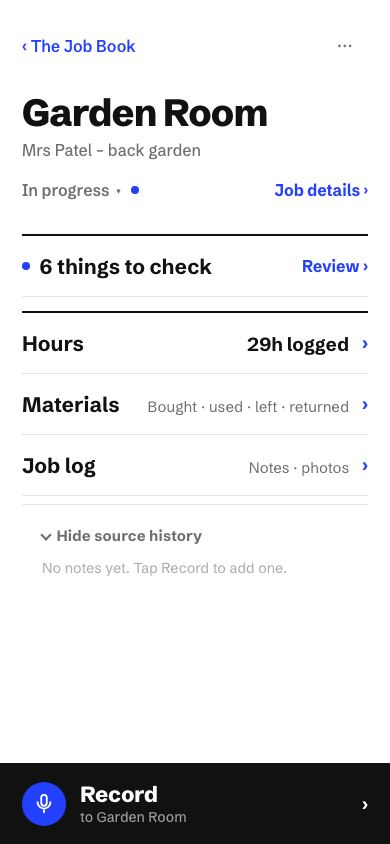
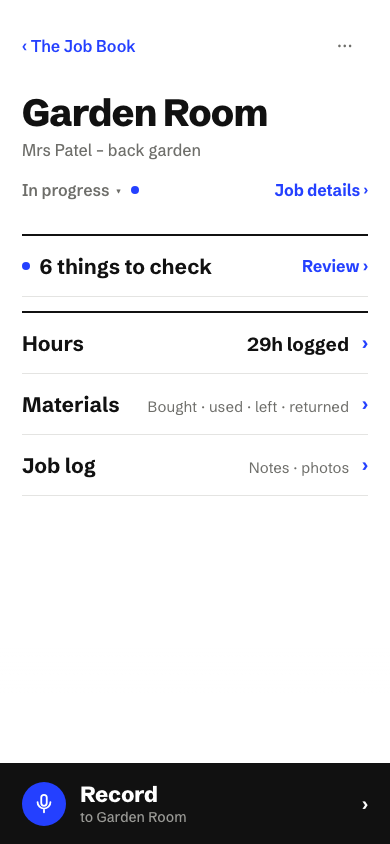
Fit Things to check actions on narrow phones; tidy job home recordings list
- Fix and Dismiss no longer shrink below their label at 320-390px; the
  action row wraps instead. Playwright now fails if any action is clipped.
- Hours checks are labelled "Hours", not "Hours · hours".
- Job home no longer says "No notes yet" beside the Job log. The phone-side
  list appears only when this phone holds recordings for the job, and is
  named "Recordings on this phone" (it keeps upload state and Retry).
- Refresh job home and Things to check screenshots; add a 320px shot.

Changed region(s): [[0.1231, 0.6161, 0.5538, 0.6777], [0.5846, 0.6469, 0.6769, 0.6777], [0.7077, 0.6469, 0.7385, 0.6777]]

diff --git a/src/__tests__/workspace.test.tsx b/src/__tests__/workspace.test.tsx
@@ -327,8 +327,8 @@ describe('CurrentJobWorkspace — capture', () => {
     await user.click(screen.getByRole('button', { name: /start recording/i }))
     await simulateRecordingComplete(FAKE_RESULT)
 
-    // Scope to source history — the capture confirmation overlay also reflects state.
-    const history = () => within(screen.getByRole('region', { name: /source history/i }))
+    // Scope to the phone recordings list — the capture confirmation overlay also reflects state.
+    const history = () => within(screen.getByRole('region', { name: /recordings on this phone/i }))
     await waitFor(() => expect(history().getByText(/saved on phone/i)).toBeInTheDocument())
     await waitFor(() => expect(history().getByText(/voice note saved/i)).toBeInTheDocument(), { timeout: 3000 })
   })
@@ -362,7 +362,7 @@ describe('CurrentJobWorkspace — capture', () => {
     await user.click(screen.getByRole('button', { name: /start recording/i }))
     await simulateRecordingComplete(FAKE_RESULT)
 
-    const history = () => within(screen.getByRole('region', { name: /source history/i }))
+    const history = () => within(screen.getByRole('region', { name: /recordings on this phone/i }))
     await waitFor(() => expect(history().getByText(/saved on this phone/i)).toBeInTheDocument())
     expect(mockUpload).not.toHaveBeenCalled()
 
@@ -406,15 +406,22 @@ describe('CurrentJobWorkspace — capture', () => {
   })
 })
 
-describe('CurrentJobWorkspace — source history / no pipeline language', () => {
+describe('CurrentJobWorkspace — phone recordings list / no pipeline language', () => {
   beforeEach(() => {
     vi.spyOn(navigator, 'onLine', 'get').mockReturnValue(true)
     vi.mocked(getReviewQueue).mockResolvedValue(EMPTY_QUEUE)
   })
 
-  it('source history region is present', () => {
+  it('shows no phone recordings list, and no "No notes yet", when the phone holds none for this job', () => {
     renderWorkspace()
-    expect(screen.getByRole('region', { name: /source history/i })).toBeInTheDocument()
+    expect(screen.queryByRole('region', { name: /recordings on this phone/i })).not.toBeInTheDocument()
+    expect(screen.queryByText(/no notes yet/i)).not.toBeInTheDocument()
+  })
+
+  it('lists recordings held on this phone for this job', async () => {
+    await saveNote(makeNote({ jobId: JOB.id, localState: 'saved_local', serverNoteId: null }))
+    renderWorkspace()
+    expect(await screen.findByRole('region', { name: /recordings on this phone/i })).toBeInTheDocument()
   })
 
   it('does not show file size on note cards', async () => {

diff --git a/src/SourceHistory.tsx b/src/SourceHistory.tsx
@@ -203,8 +203,12 @@ export default function SourceHistory({
   onToggle: () => void
 }) {
   const canRefresh = notes.some(n => n.localState === 'uploaded' && n.serverNoteId)
+  // The Job log is the record of a job's notes. This list is only the
+  // recordings held on this phone (with upload state and Retry), so it is
+  // absent rather than "empty" when there are none.
+  if (notes.length === 0) return null
   return (
-    <section className="source-history" aria-label="Source history">
+    <section className="source-history" aria-label="Recordings on this phone">
       <div className="source-history-header">
         <button
           className="source-history-toggle"
@@ -212,10 +216,8 @@ export default function SourceHistory({
           onClick={onToggle}
         >
           {open
-            ? 'Hide source history'
-            : notes.length > 0
-              ? `Source history (${notes.length})`
-              : 'Source history'}
+            ? 'Hide recordings on this phone'
+            : `Recordings on this phone (${notes.length})`}
         </button>
         {open && canRefresh && (
           <button className="btn-refresh-transcripts" onClick={onRefresh}>
@@ -224,17 +226,13 @@ export default function SourceHistory({
         )}
       </div>
       {open && (
-        notes.length === 0 ? (
-          <p className="notes-empty">No notes yet. Tap Record to add one.</p>
-        ) : (
-          <ul className="notes-list">
-            {notes.map(note => (
-              <li key={note.clientNoteId}>
-                <NoteCard note={note} online={online} onRetry={onRetry} facts={facts} factsLoadFailed={factsLoadFailed} />
-              </li>
-            ))}
-          </ul>
-        )
+        <ul className="notes-list">
+          {notes.map(note => (
+            <li key={note.clientNoteId}>
+              <NoteCard note={note} online={online} onRetry={onRetry} facts={facts} factsLoadFailed={factsLoadFailed} />
+            </li>
+          ))}
+        </ul>
       )}
     </section>
   )

diff --git a/e2e/things-to-check-volume.spec.ts b/e2e/things-to-check-volume.spec.ts
@@ -79,3 +79,29 @@ test.describe('Things to check — real-use volume', () => {
     expect((remBox?.y ?? 0)).toBeGreaterThan(cardBox?.y ?? 0)
   })
 })
+
+test.describe('Things to check — action buttons fit on a phone', () => {
+  for (const width of [320, 390]) {
+    test(`no action button is clipped at ${width}px`, async ({ page }) => {
+      await page.setViewportSize({ width, height: 844 })
+      await openQueue(page)
+      const clipped = await page.$$eval('.queue-item-actions button', (buttons) =>
+        buttons
+          .filter((b) => {
+            const card = b.closest('.queue-item-card') ?? document.body
+            const r = b.getBoundingClientRect()
+            const c = card.getBoundingClientRect()
+            return b.scrollWidth > b.clientWidth + 1 || r.right > c.right + 1
+          })
+          .map((b) => b.textContent?.trim()),
+      )
+      expect(clipped).toEqual([])
+      await expect(page.getByRole('button', { name: 'Dismiss' }).first()).toBeVisible()
+    })
+  }
+})
+
+test('Hours checks are labelled once, not "Hours · hours"', async ({ page }) => {
+  await openQueue(page)
+  await expect(page.getByText('Hours · hours')).toHaveCount(0)
+})

diff --git a/src/index.css b/src/index.css
@@ -3937,8 +3937,9 @@ code {
 /* Actions: one compact row — Remember (wide) · Fix · Dismiss */
 .queue-item-actions { flex-direction: row; flex-wrap: wrap; gap: 0.4rem; margin-top: 0.8rem; }
 .btn-queue-remember { flex: 2 1 7rem; min-width: 0; min-height: 42px; font-size: var(--text-sm); }
+/* Fix and Dismiss never shrink below their label; the row wraps instead. */
 .queue-item-actions .btn-queue-correct,
-.queue-item-actions .btn-queue-dismiss { flex: 1 1 0; min-width: 0; min-height: 42px; font-size: var(--text-sm); white-space: nowrap; padding-left: 0.4rem; padding-right: 0.4rem; }
+.queue-item-actions .btn-queue-dismiss { flex: 1 0 auto; min-width: max-content; min-height: 42px; font-size: var(--text-sm); white-space: nowrap; padding-left: 0.4rem; padding-right: 0.4rem; }
 .btn-queue-dismiss { color: var(--ink-500); }
 .btn-queue-unsure { flex: 1 1 100%; }
 .btn-queue-addcat {

diff --git a/src/ReviewQueueScreen.tsx b/src/ReviewQueueScreen.tsx
@@ -33,18 +33,16 @@ const STRUCTURED_TYPES = new Set<MemoryType>([
   'leftover_material',
   'labour',
 ])
-// Types that can carry a budget category. Budget owns all cost, so cost-bearing
-// types are category-bearing; labour is hours-only and never carries a category.
 
 const MATERIAL_TYPE_CARD_LABEL: Partial<Record<MemoryType, string>> = {
   ordered_material: 'Bought / ordered',
   used_material: 'Used',
   leftover_material: 'Left over',
-  labour: 'Hours · hours',
+  labour: 'Hours',
 }
 
-// Scannable card text: a bold headline, a muted meta line, and a cost line —
-// instead of a dense label/value grid.
+// Scannable card text: a bold headline and a muted meta line, instead of a
+// dense label/value grid.
 function reviewHeadline(pm: ProposedMemory): string {
   if (pm.memoryType === 'labour') {
     const hours = pm.labourHours ? `${pm.labourHours} hours` : null
